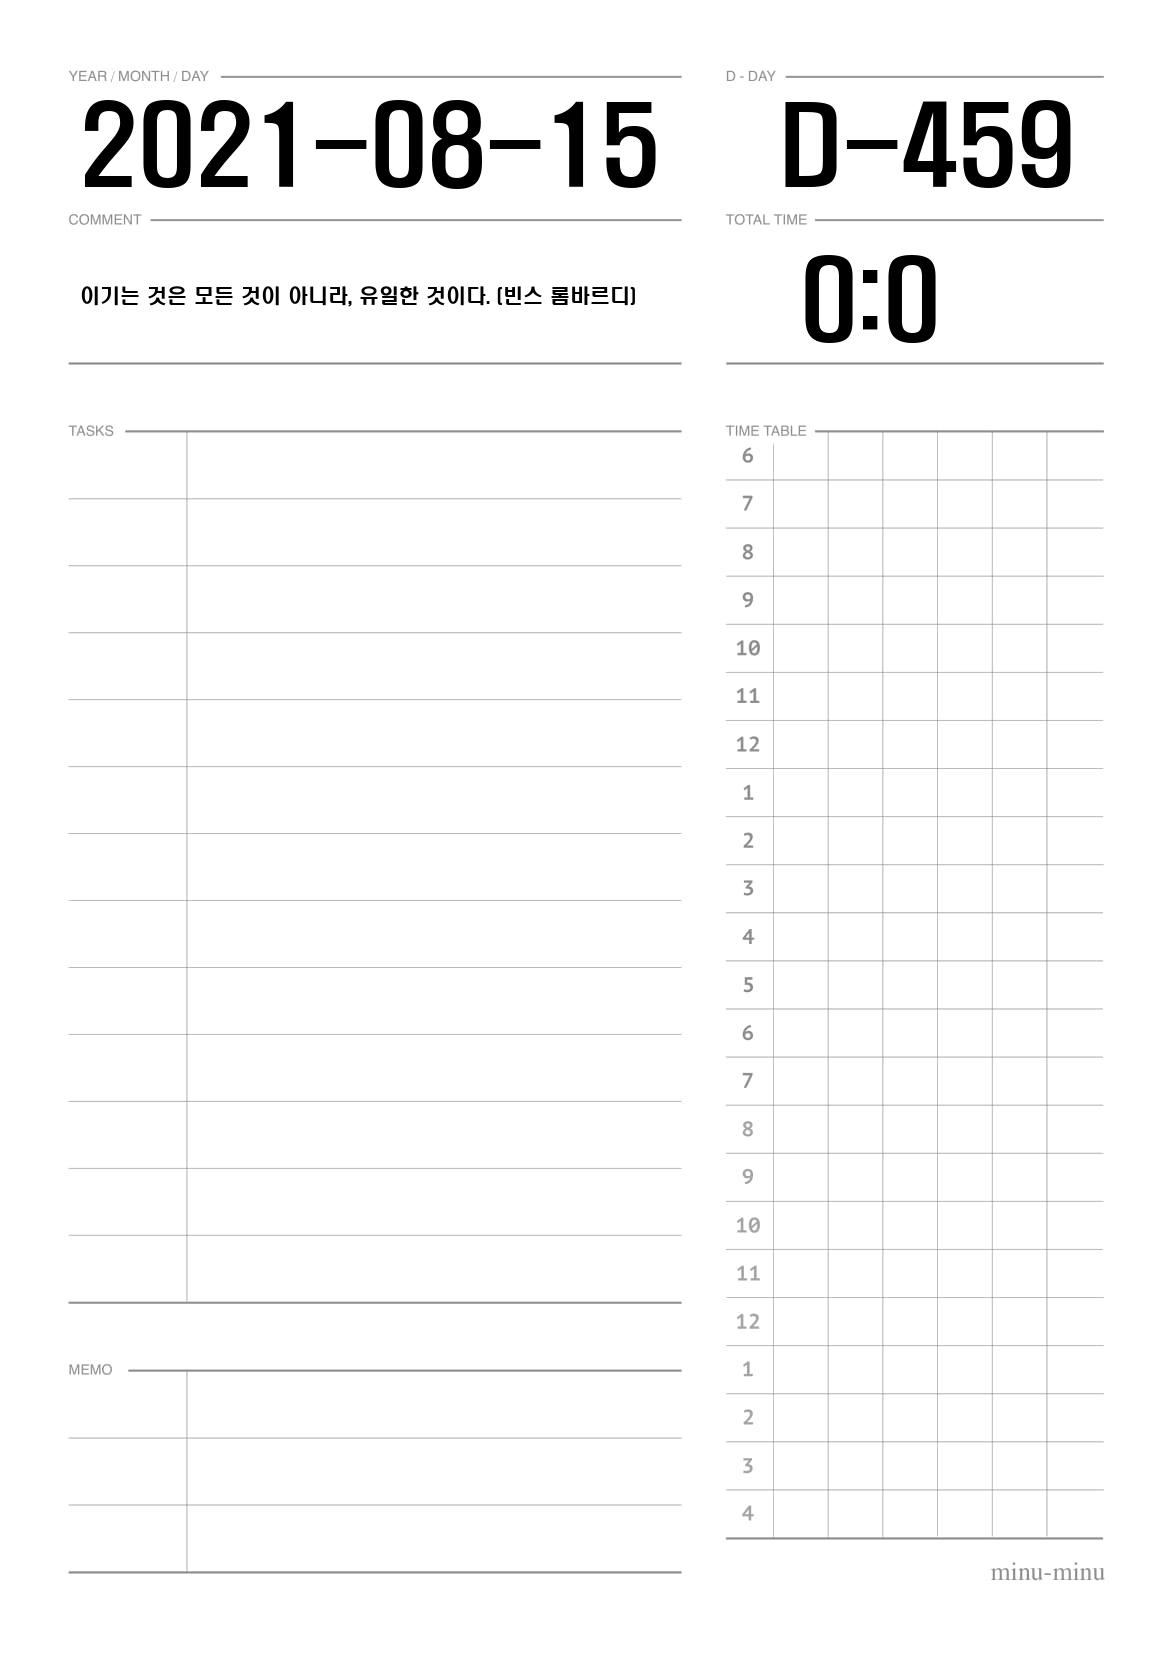
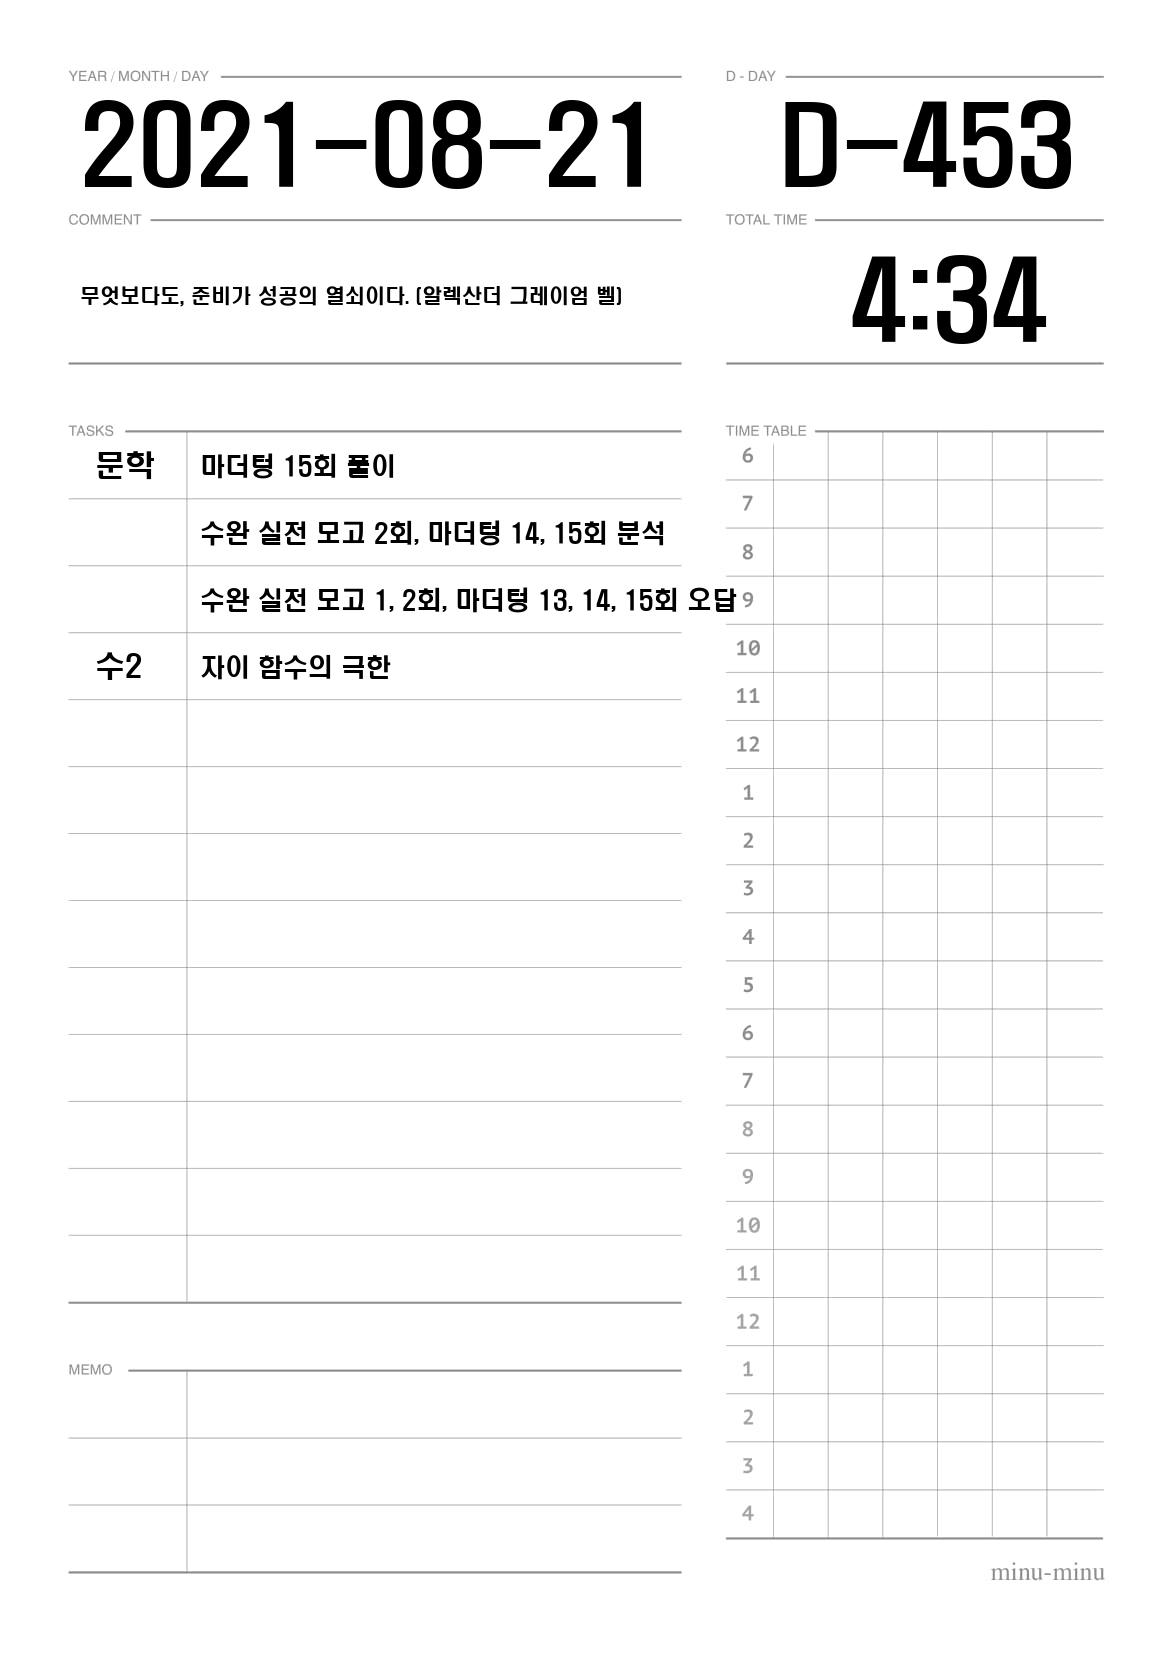
좌표 수정

diff --git a/main_v2(missed).py b/main_v2(missed).py
@@ -164,7 +164,7 @@ def draw_total_time():
         sum_min -= (sum_min // 60 * 60)
 
     draw_total_time_font = ImageFont.truetype(os.path.join(fontsFolder, 'H2HDRM.ttf'), 100)
-    draw.text((800, 250), str(sum_hour)+":"+str(sum_min), fill="black", font=draw_total_time_font)
+    draw.text((850, 250), str(sum_hour)+":"+str(sum_min), fill="black", font=draw_total_time_font)
 
 def random_color(num):
     color = [

diff --git a/main_v2.py b/main_v2.py
@@ -164,7 +164,7 @@ def draw_total_time():
         sum_min -= (sum_min // 60 * 60)
 
     draw_total_time_font = ImageFont.truetype(os.path.join(fontsFolder, 'H2HDRM.ttf'), 100)
-    draw.text((800, 250), str(sum_hour)+":"+str(sum_min), fill="black", font=draw_total_time_font)
+    draw.text((850, 250), str(sum_hour)+":"+str(sum_min), fill="black", font=draw_total_time_font)
 
 def random_color(num):
     color = [
